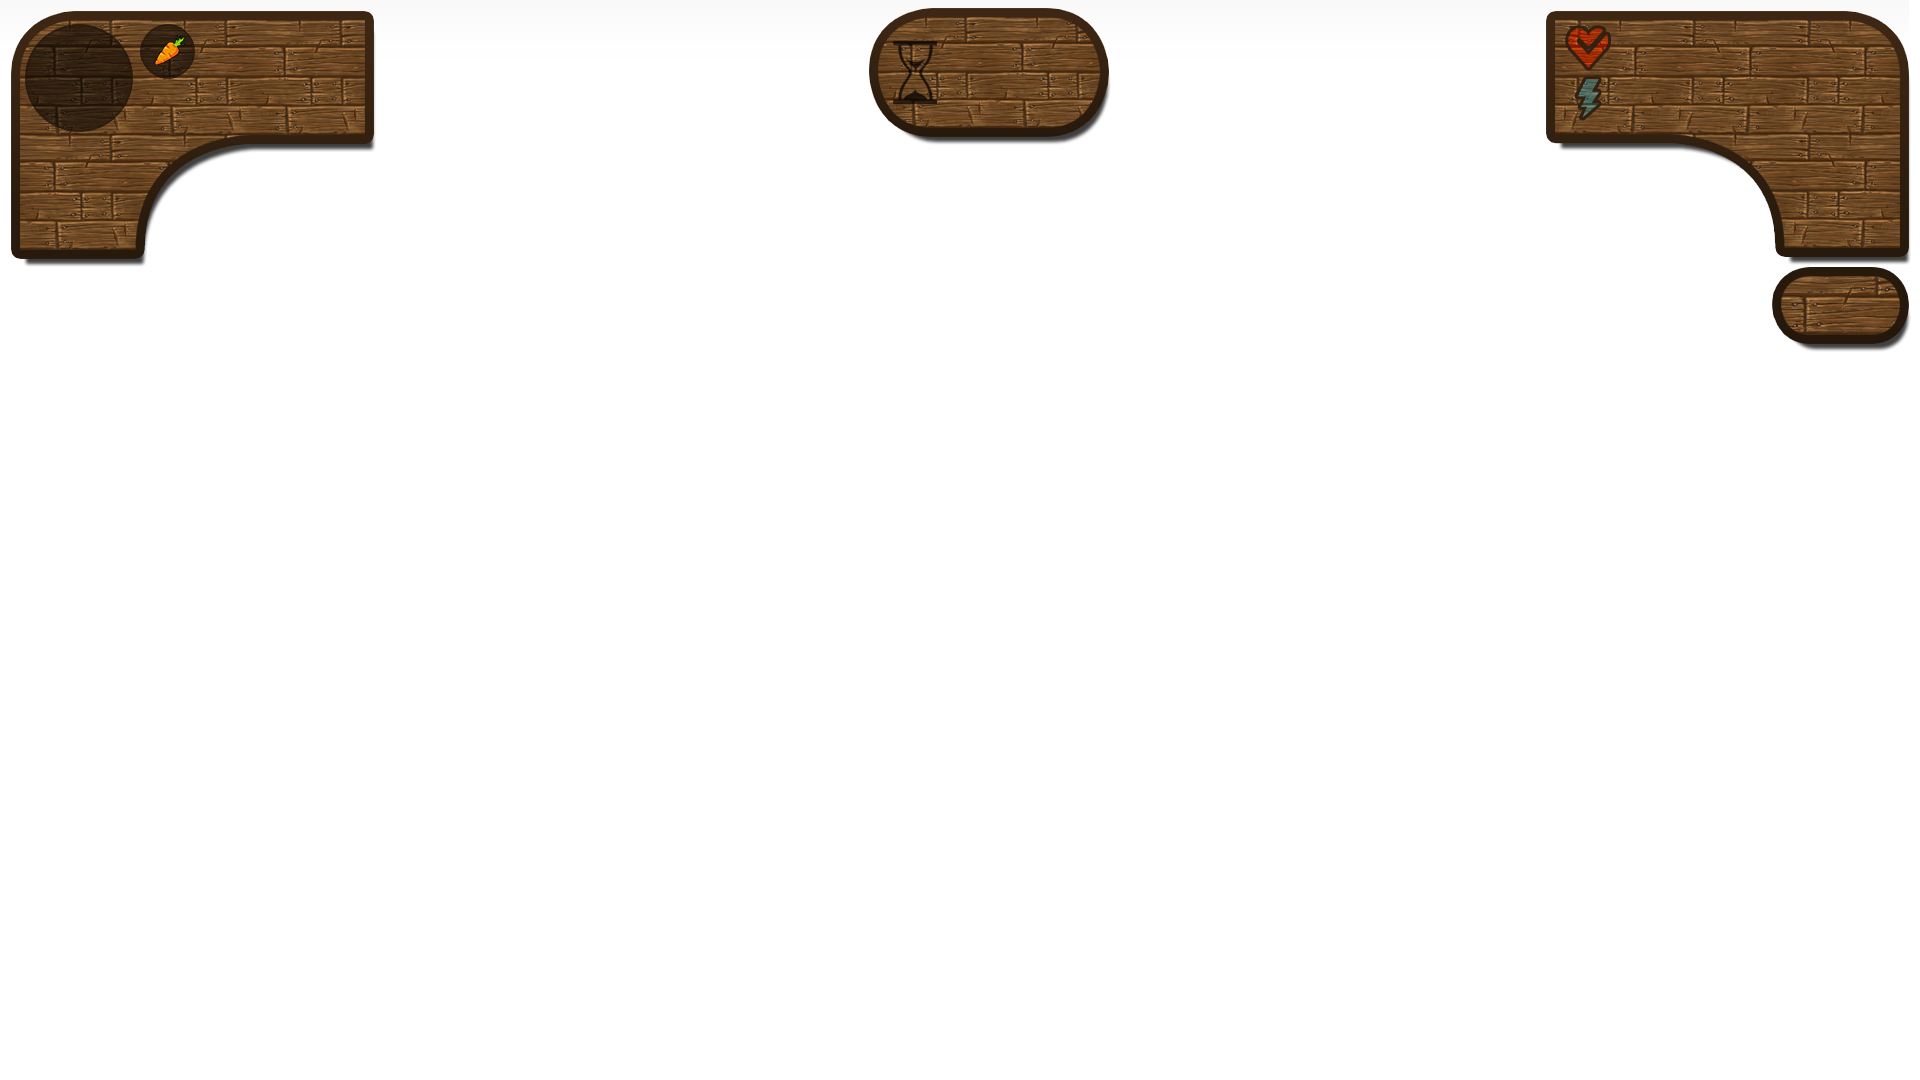
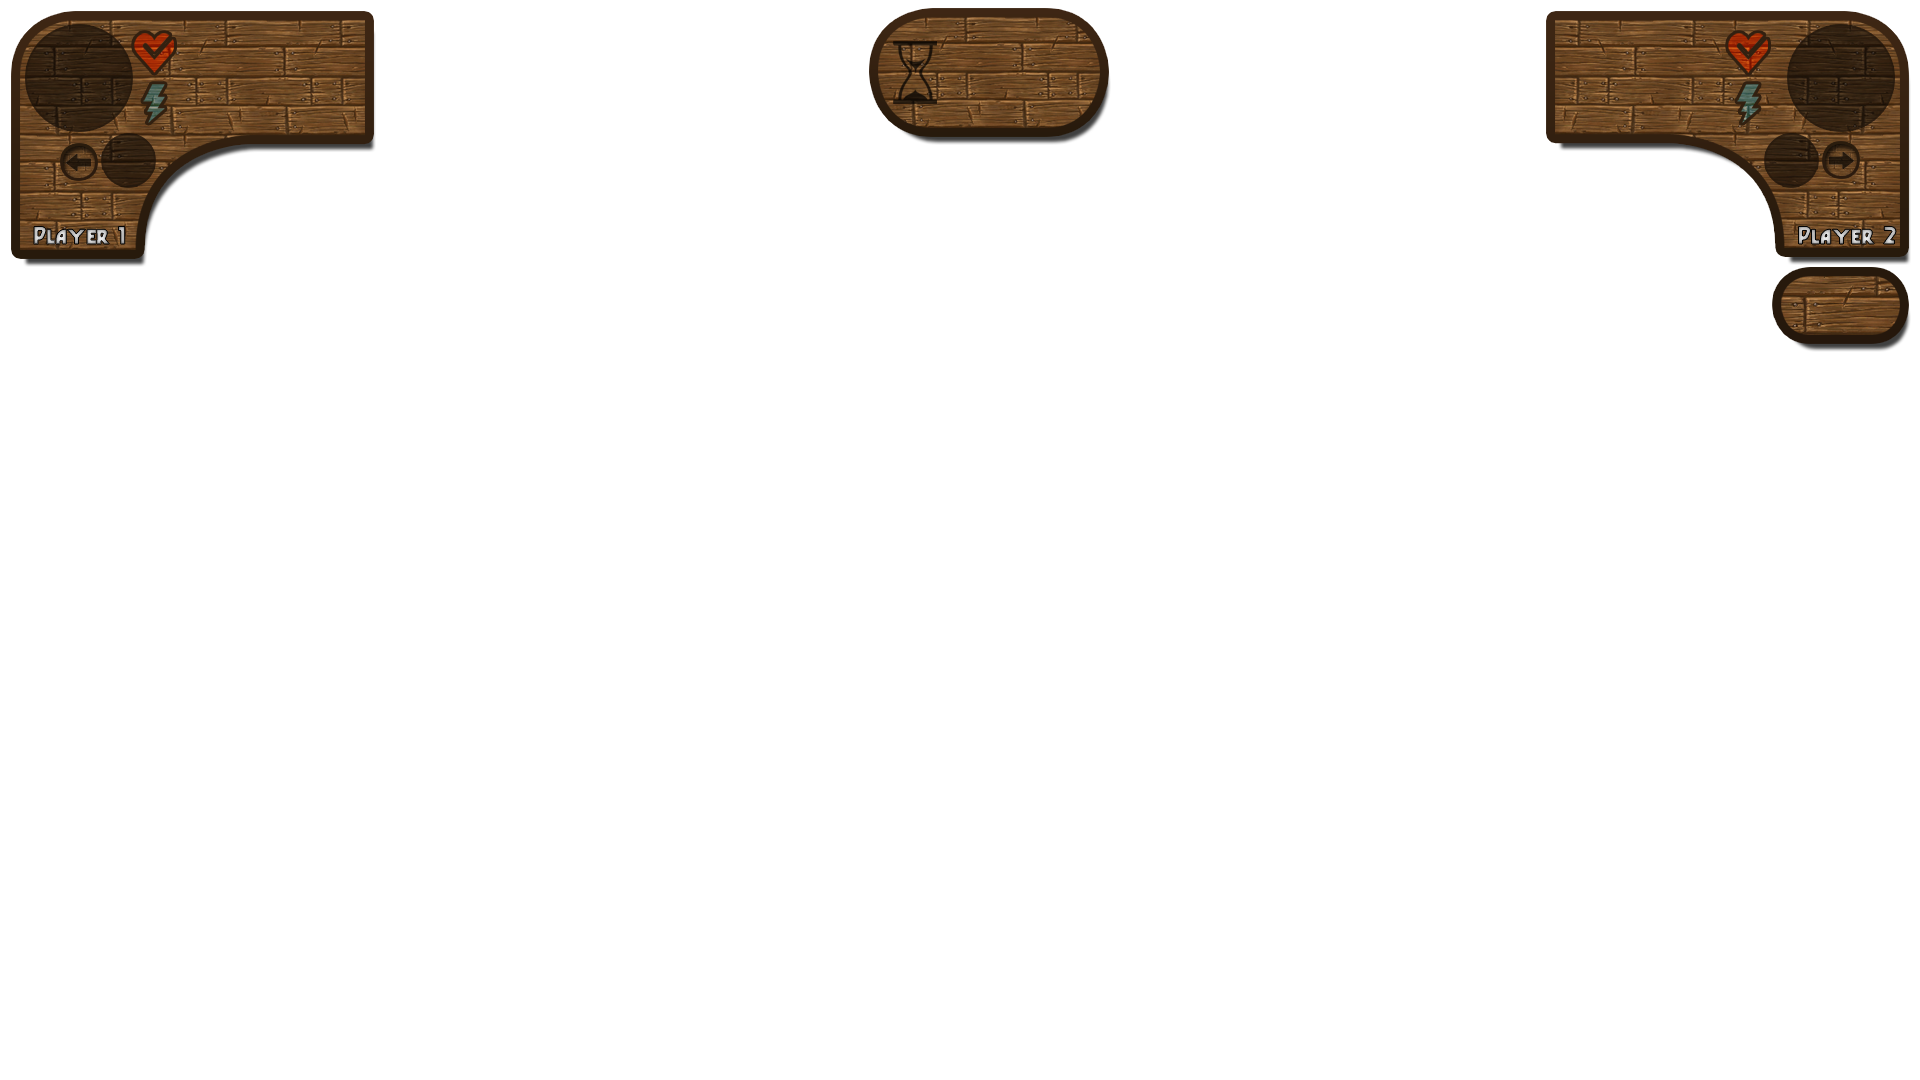
Work in progress HUD, new player selection

diff --git a/FoodWars/Sources/GameECS/Systems/DrawSystem.cpp b/FoodWars/Sources/GameECS/Systems/DrawSystem.cpp
@@ -6,6 +6,7 @@
 #include "../../../Headers/GameECS/Components/PositionComponent.h"
 #include "../../../../TonicEngine/Headers/Visual/Shapes/TextButton.h"
 #include "../../../Headers/GameECS/Components/DamageableComponent.h"
+#include "../../../Headers/GameECS/Components/PlayerComponent.h"
 
 DrawSystem::DrawSystem(std::shared_ptr<EntityManager> entityManager,
                         std::shared_ptr<VisualFacade> visualFacade,
@@ -22,7 +23,7 @@ void DrawSystem::update(double dt) {
     _renderList._shapes.clear();
     _updateCallCount++;
     drawNonComponents();
-    drawCurrentPlayer();
+    drawPlayers();
     //Draw Components
     for(const auto &iterator: _entityManager->getAllEntitiesWithComponent<DrawableComponent>()) {
         std::shared_ptr<PositionComponent> positionComponent = _entityManager->getComponentFromEntity<PositionComponent>(iterator.first);
@@ -40,8 +41,11 @@ void DrawSystem::drawNonComponents() {
 
     _renderList._shapes[2].push_back(createShape<ShapeSprite>(1600, 900, 0, 0, "ScreenGameSmallUI.png"));
 
-    if(!_playerIcon.empty()) {
-        _renderList._shapes[3].push_back(createShape<ShapeSprite>(36, 54, 47, 40, _playerIcon));
+    if(!_playerIconOne.empty()) {
+        _renderList._shapes[3].push_back(createShape<ShapeSprite>(36, 54, 47, 40, _playerIconOne));
+    }
+    if(!_playerIconOne.empty()) {
+        _renderList._shapes[3].push_back(createShape<ShapeSprite>(36, 54, 1515, 40, _playerIconTwo));
     }
     //Framerate
     std::chrono::duration<double> currentTime = std::chrono::steady_clock::now().time_since_epoch();
@@ -55,42 +59,26 @@ void DrawSystem::drawNonComponents() {
         _renderList._shapes[3].push_back(
                 createShape<ShapeText>(27, 155, _fpsString, 180, 75, 37, Colour(255, 255, 255, 0)));
     }
-    //Draw Turn Timer and HP
-    for(const auto &iterator: _entityManager->getAllEntitiesWithComponent<TurnComponent>()) {
-        if(iterator.second->isMyTurn()) {
-            int hpWidth = _entityManager->getComponentFromEntity<DamageableComponent>(iterator.first)->GetHealth() * 2;
-            _renderList._shapes[3].push_back(createShape<ShapeText>(1350, 27, "HP: " + std::to_string(hpWidth / 2),180, 75, 25, Colour(255, 255, 255, 0)));
-            _renderList._shapes[2].push_back(createShape<ShapeRectangle>(hpWidth, 25, 1350, 27, Colour(50, 205, 50, 0)));
-
-            int energyWidth = static_cast<int>(iterator.second->getEnergy() * 2);
-            _renderList._shapes[3].push_back(createShape<ShapeText>(1350, 67, "EP: " + std::to_string(energyWidth / 2),180, 75, 25, Colour(255, 255, 255, 0)));
-            _renderList._shapes[2].push_back(createShape<ShapeRectangle>(energyWidth, 25, 1350, 69, Colour(0, 191, 255, 0)));
-
-            double time = iterator.second->getRemainingTime();
-            std::string text;
-            if (time < 10) {
-                text = std::to_string(time).substr(0, 3);
-            } else {
-                text = std::to_string(time).substr(0, 4);
-            }
-            _renderList._shapes[3].push_back(
-                    createShape<ShapeText>(800, 45, text, 180, 75, 37, Colour(255, 255, 255, 0)));
-            break;
-        }
-    }
+    drawPlayerStats();
 }
 
-void DrawSystem::drawCurrentPlayer() {
+void DrawSystem::drawPlayers() {
     _playerUpdateCount++;
     if(_playerUpdateCount > 30){
-        std::map<int, std::shared_ptr<TurnComponent>> turnComps = _entityManager->getAllEntitiesWithComponent<TurnComponent>();
-        for (auto const& x : turnComps)
+        std::map<int, std::shared_ptr<PlayerComponent>> playerComps = _entityManager->getAllEntitiesWithComponent<PlayerComponent>();
+        for (auto const& x : playerComps)
         {
-            if(x.second->isMyTurn()){
+            if(x.second->getPlayerID() == 1){
                 ShapeSprite* sprite = dynamic_cast<ShapeSprite*>(_entityManager->getComponentFromEntity<DrawableComponent>(x.first)->shape);
                if(sprite != nullptr) {
-                   _playerIcon = sprite->imageURL;
+                   _playerIconOne = sprite->imageURL;
                }
+            }
+            if(x.second->getPlayerID() == 2){
+                ShapeSprite* sprite = dynamic_cast<ShapeSprite*>(_entityManager->getComponentFromEntity<DrawableComponent>(x.first)->shape);
+                if(sprite != nullptr) {
+                    _playerIconTwo = sprite->imageURL;
+                }
             }
         }
         _playerUpdateCount = 0;
@@ -99,4 +87,59 @@ void DrawSystem::drawCurrentPlayer() {
 
 bool DrawSystem::toggleFpsCounter() {
     _showFPS = !_showFPS;
+}
+
+void DrawSystem::drawPlayerStats() {
+//Draw Turn Timer and HP
+    for(const auto &iterator: _entityManager->getAllEntitiesWithComponent<PlayerComponent>()) {
+        if(iterator.second->getPlayerID() == 1) {
+            int hpWidth = _entityManager->getComponentFromEntity<DamageableComponent>(iterator.first)->GetHealth();
+            _renderList._shapes[3].push_back(createShape<ShapeText>(150, 27, std::to_string(hpWidth),180, 40, 25, Colour(255, 255, 255, 0)));
+            _renderList._shapes[2].push_back(createShape<ShapeRectangle>(hpWidth*1.5, 25, 150, 27, Colour(50, 205, 50, 0)));
+
+            auto turnComp = _entityManager->getComponentFromEntity<TurnComponent>(iterator.first);
+            int energy = static_cast<int>(turnComp->getEnergy());
+            if(energy < 0){
+                energy = 0;
+            }
+            _renderList._shapes[3].push_back(createShape<ShapeText>(150, 70, std::to_string(energy),180, 40, 25, Colour(255, 255, 255, 0)));
+            _renderList._shapes[2].push_back(createShape<ShapeRectangle>(energy*1.5, 25, 150, 69, Colour(0, 191, 255, 0)));
+            if(turnComp->isMyTurn()){
+                double time = turnComp->getRemainingTime();
+                std::string text;
+                if (time < 10) {
+                    text = std::to_string(time).substr(0, 3);
+                } else {
+                    text = std::to_string(time).substr(0, 4);
+                }
+                _renderList._shapes[3].push_back(
+                        createShape<ShapeText>(800, 45, text, 180, 75, 37, Colour(255, 255, 255, 0)));
+            }
+        }
+        if(iterator.second->getPlayerID() == 2){
+            int hpWidth = _entityManager->getComponentFromEntity<DamageableComponent>(iterator.first)->GetHealth();
+            _renderList._shapes[3].push_back(createShape<ShapeText>(1300 + 80, 27, std::to_string(hpWidth),180, 40, 25, Colour(255, 255, 255, 0)));
+            _renderList._shapes[2].push_back(createShape<ShapeRectangle>(hpWidth*1.3, 25, 1300-hpWidth*1.3 + 130, 27, Colour(50, 205, 50, 0)));
+
+            auto turnComp = _entityManager->getComponentFromEntity<TurnComponent>(iterator.first);
+            int energy = static_cast<int>(turnComp->getEnergy());
+            if(energy < 0){
+                energy = 0;
+            }
+            _renderList._shapes[3].push_back(createShape<ShapeText>(1300 + 80, 70, std::to_string(energy),180, 40, 25, Colour(255, 255, 255, 0)));
+            _renderList._shapes[2].push_back(createShape<ShapeRectangle>(energy*1.3, 25, 1300-energy*1.3 + 130, 69, Colour(0, 191, 255, 0)));
+
+            if(turnComp->isMyTurn()){
+                double time = turnComp->getRemainingTime();
+                std::string text;
+                if (time < 10) {
+                    text = std::to_string(time).substr(0, 3);
+                } else {
+                    text = std::to_string(time).substr(0, 4);
+                }
+                _renderList._shapes[3].push_back(
+                        createShape<ShapeText>(800, 45, text, 180, 75, 37, Colour(255, 255, 255, 0)));
+            }
+        }
+    }
 }

diff --git a/FoodWars/Sources/LevelManager.cpp b/FoodWars/Sources/LevelManager.cpp
@@ -5,6 +5,7 @@
 #include "../Headers/GameECS/Components/DamageableComponent.h"
 #include "../Headers/GameECS/Components/DamagingComponent.h"
 #include "../Headers/GameECS/Systems/StorageSystem.h"
+#include "../Headers/GameECS/Components/PlayerComponent.h"
 
 LevelManager::LevelManager()
 {
@@ -102,6 +103,7 @@ void LevelManager::spawnPlayers(){
     entityManager->addComponentToEntity(player, new GravityComponent());
     entityManager->addComponentToEntity(player, animationComponent);
     entityManager->addComponentToEntity(player, new DamageableComponent);
+    entityManager->addComponentToEntity(player, new PlayerComponent(1));
 
     // Player
     player = entityManager->createEntity();
@@ -113,6 +115,7 @@ void LevelManager::spawnPlayers(){
     entityManager->addComponentToEntity(player, new GravityComponent());
     entityManager->addComponentToEntity(player, animationComponent2);
     entityManager->addComponentToEntity(player, new DamageableComponent);
+    entityManager->addComponentToEntity(player, new PlayerComponent(2));
 
     int boundLeft = entityManager->createEntity();
     entityManager->addComponentToEntity(boundLeft, new BoxCollider(900, 900));

diff --git a/FoodWars/Sources/GameECS/Components/PlayerComponent.cpp b/FoodWars/Sources/GameECS/Components/PlayerComponent.cpp
@@ -1,0 +1,27 @@
+#include <utility>
+
+#include "../../../Headers/GameECS/Components/PlayerComponent.h"
+
+PlayerComponent::PlayerComponent(int id) : _playerID(id), _score(0), _selectedWeapon("carrot.png") {
+
+}
+
+void PlayerComponent::setSelectedWeapon(std::string ImageURL) {
+    _selectedWeapon = std::move(ImageURL);
+}
+
+void PlayerComponent::setPlayerID(int id) {
+    _playerID = id;
+}
+
+void PlayerComponent::addScore(int score) {
+    _score += score;
+}
+
+int PlayerComponent::getPlayerID() const {
+    return _playerID;
+}
+
+int PlayerComponent::getScore() const {
+ return _score;
+}

diff --git a/FoodWars/Headers/GameECS/Components/PlayerComponent.h b/FoodWars/Headers/GameECS/Components/PlayerComponent.h
@@ -1,0 +1,27 @@
+#ifndef PROJECT_SWA_PLAYERCOMPONENT_H
+#define PROJECT_SWA_PLAYERCOMPONENT_H
+
+
+#include <vector>
+#include <string>
+#include "Component.h"
+
+class PlayerComponent : public Component {
+public:
+    PlayerComponent() = default;
+    explicit PlayerComponent(int id);
+public:
+    void setPlayerID(int id);
+    void setSelectedWeapon(std::string ImageURL);
+    void addScore(int score);
+
+    int getPlayerID() const;
+    int getScore() const;
+private:
+    int _playerID;
+    int _score;
+    std::string _selectedWeapon;
+};
+
+
+#endif //PROJECT_SWA_PLAYERCOMPONENT_H

diff --git a/FoodWars/Headers/GameECS/Systems/DrawSystem.h b/FoodWars/Headers/GameECS/Systems/DrawSystem.h
@@ -18,7 +18,8 @@ private:
     int _updateCallCount;
     std::string _fpsString;
 
-    std::string _playerIcon;
+    std::string _playerIconOne;
+    std::string _playerIconTwo;
     int _playerUpdateCount = 0;
 
     bool _showFPS = true;
@@ -30,8 +31,8 @@ public:
 
 private:
     void drawNonComponents();
-    void drawCurrentPlayer();
-
+    void drawPlayers();
+    void drawPlayerStats();
     template<typename T, typename... Args>
     IShape *createShape(Args &&... args) {
         T *shape = new T(std::forward<Args>(args)...);
